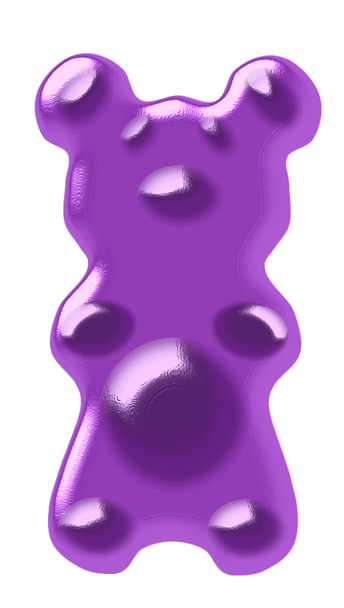
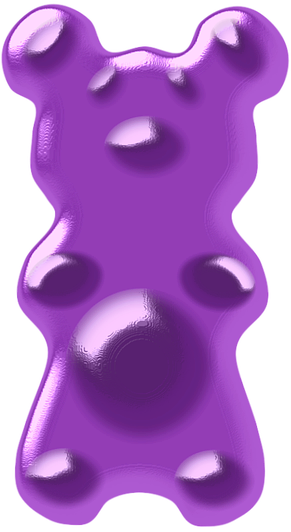
Updated next buttons. Styled page layout. Updated gummy bear page.

diff --git a/dev/public/css/styles.css b/dev/public/css/styles.css
@@ -1,12 +1,18 @@
-
+/**********************/
+/*******GENERAL********/
+/**********************/
 body {
     margin: 0;
     padding: 0;
-    background: linear-gradient(225deg, rgba(50, 20, 55, 1), rgba(150, 150, 150, 1));
+    height: 100%;
+    background: linear-gradient(225deg, rgba(50, 20, 55, 1), rgba(150, 150, 150, 1)) fixed;
     color: white;
     font-family: 'Noto Sans', sans-serif;
     font-size: 25px;
 }
+/**********************/
+/*******SIDEBAR********/
+/**********************/
 .side-bar {
     height: 74px;
     width: 100vw;
@@ -21,4 +27,43 @@ body {
 }
 .little-a {
     font-size: .8em;
+}
+/************************/
+/*******COMPONENTS*******/
+/************************/
+.component-container {
+    height: (100vh - 74px);
+}
+.game-container {
+    display: flex;
+    flex-wrap: wrap;
+    justify-content: space-around;
+    align-items: center;
+    position: absolute;
+    left: 50%;
+    top: 50%;
+    transform: translate(-50%, -50%);
+    background-color: rgba(216, 216, 216, 0.2);
+    height: 359px;
+    width:100%;
+    border-radius: 8px;
+}
+.game-title {
+    text-align: center;
+}
+.next-btn {
+    position: fixed;
+    right: 10px;
+    bottom: 10px;
+    color: white;
+    opacity: .7;
+    font-size: 45px;
+}
+/**********************/
+/*****GUMMY BEARS******/
+/**********************/
+.gummy-bear {
+    width: 125px;
+    height: 150px;
+    margin: 10px;
 }

diff --git a/dev/public/js/components/gummy-bears/gummy-bears.html b/dev/public/js/components/gummy-bears/gummy-bears.html
@@ -1,7 +1,10 @@
-
-<section class= "component-section">
-    <img jiggle class="gummy-bear" src="images/purple-gummy.png">
-    <button ng-click = "$ctrl.nextUp();">Next</button>
+<section class="component-section">
+    <p class="game-title">Pick a gummy bear.</p>
+    <div class="game-container">
+        <img jiggle class="gummy-bear" src="images/purple-gummy.png">
+        <img jiggle class="gummy-bear" src="images/red-gummy.png">
+        <img jiggle class="gummy-bear" src="images/green-gummy.png">
+        <img jiggle class="gummy-bear" src="images/yellow-gummy.png">
+    </div>
+    <i class="next-btn far fa-arrow-alt-circle-right" ng-click="$ctrl.nextUp();"></i>
 </section>
-
-

diff --git a/dev/public/index.html b/dev/public/index.html
@@ -5,6 +5,7 @@
     <meta name="viewport" content="width=device-width, initial-scale=1.0">
     <meta http-equiv="X-UA-Compatible" content="ie=edge">
     <link href="https://fonts.googleapis.com/css?family=Noto+Sans:700" rel="stylesheet">
+    <link rel="stylesheet" href="https://use.fontawesome.com/releases/v5.5.0/css/all.css" integrity="sha384-B4dIYHKNBt8Bc12p+WXckhzcICo0wtJAoU8YZTY5qE0Id1GSseTk6S+L3BlXeVIU" crossorigin="anonymous">
     <link rel="stylesheet" href="https://cdnjs.cloudflare.com/ajax/libs/animate.css/3.7.0/animate.min.css">
     <link rel="stylesheet" href="css/styles.css">
     <title>the HERD</title>

diff --git a/dev/public/js/directive/animate.js b/dev/public/js/directive/animate.js
@@ -9,7 +9,7 @@ function jiggle() {
                 event.target.classList += " animated jello";
             })
             .on("mouseleave", (event) => {
-                event.target.classList -= " animated jello";
+                event.target.classList = "gummy-bear";
             });
         }
     };

diff --git a/dev/public/js/components/3-component-3/component-3.html b/dev/public/js/components/3-component-3/component-3.html
@@ -3,6 +3,6 @@
     <p>Option 2</p>
     <p>Option 3</p>
     <p>Option 4</p>
-    <button ng-click = "$ctrl.nextUp();">Next</button>
+    <i class="next-btn far fa-arrow-alt-circle-right" ng-click="$ctrl.nextUp();"></i>
 </section>
     

diff --git a/dev/public/js/components/4-component-4/component-4.html b/dev/public/js/components/4-component-4/component-4.html
@@ -3,6 +3,6 @@
     <p>Option 2</p>
     <p>Option 3</p>
     <p>Option 4</p>
-    <button ng-click = "$ctrl.nextUp();">Next</button>
+    <i class="next-btn far fa-arrow-alt-circle-right" ng-click="$ctrl.nextUp();"></i>
 </section>
     

diff --git a/dev/public/js/components/2-component-2/component-2.html b/dev/public/js/components/2-component-2/component-2.html
@@ -3,5 +3,5 @@
     <p>Option 2</p>
     <p>Option 3</p>
     <p>Option 4</p>
-    <button ng-click = "$ctrl.nextUp();">Next</button>
+    <i class="next-btn far fa-arrow-alt-circle-right" ng-click="$ctrl.nextUp();"></i>
 </section>

diff --git a/dev/public/js/components/5-component-5/component-5.html b/dev/public/js/components/5-component-5/component-5.html
@@ -3,5 +3,5 @@
     <p>Option 2</p>
     <p>Option 3</p>
     <p>Option 4</p>
-    <button ng-click = "$ctrl.nextUp();">Next</button>
+    <i class="next-btn far fa-arrow-alt-circle-right" ng-click="$ctrl.nextUp();"></i>
 </section>
